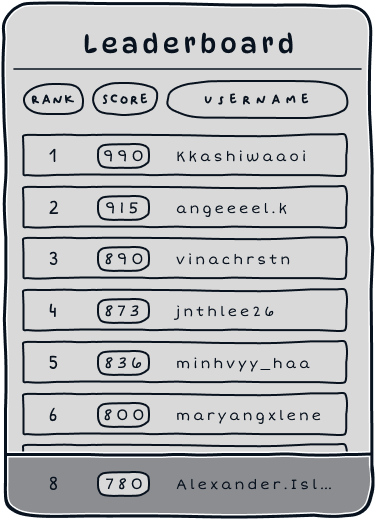
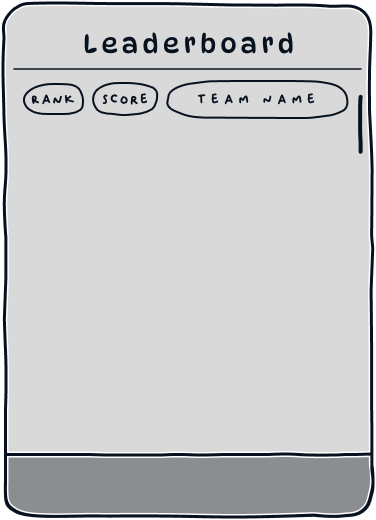
aaa

diff --git a/screens/TeamPageChem.tsx b/screens/TeamPageChem.tsx
@@ -57,19 +57,19 @@ const TeamPageChem: React.FC = () => {
   const getWeekRange = (createdAt: any) => {
     if (!createdAt) return 'Loading...';
     const date = createdAt.toDate ? createdAt.toDate() : new Date(createdAt);
-    
+
     // Set to Monday
     const startOfWeek = new Date(date);
     const day = startOfWeek.getDay();
     const diff = startOfWeek.getDate() - day + (day === 0 ? -6 : 1);
     startOfWeek.setDate(diff);
-    
+
     // Set to Sunday
     const endOfWeek = new Date(startOfWeek);
     endOfWeek.setDate(startOfWeek.getDate() + 6);
 
     const months = ["January", "February", "March", "April", "May", "June", "July", "August", "September", "October", "November", "December"];
-    
+
     const startDay = startOfWeek.getDate();
     const startMonth = months[startOfWeek.getMonth()];
     const endDay = endOfWeek.getDate();
@@ -419,7 +419,8 @@ const styles = StyleSheet.create({
     fontFamily: FONTS.ui,
     fontSize: s(13),
     color: '#08121e',
-    top: s(1)
+    top: s(1),
+    left: s(10)
   },
   arrowButton: {
     width: s(25),
